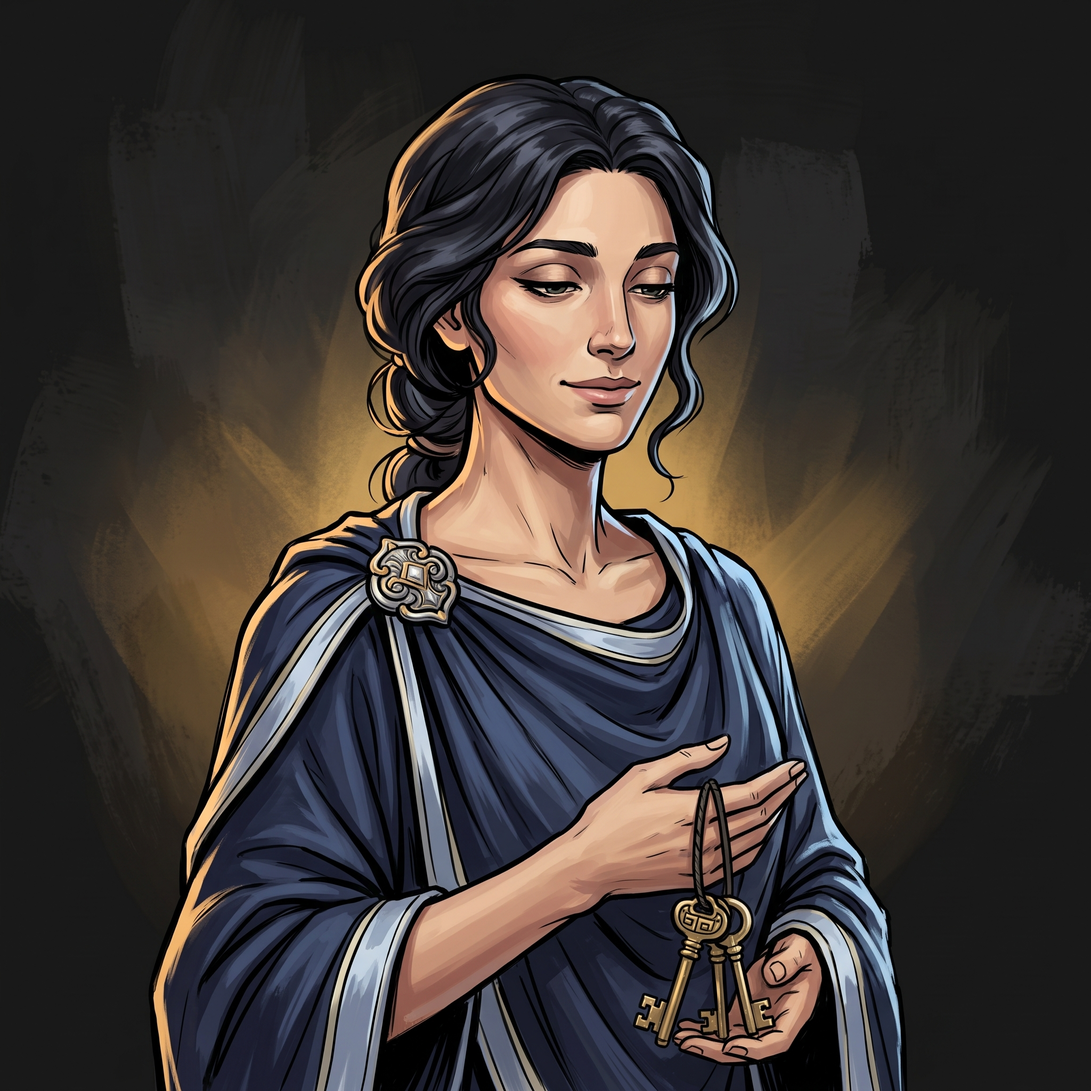
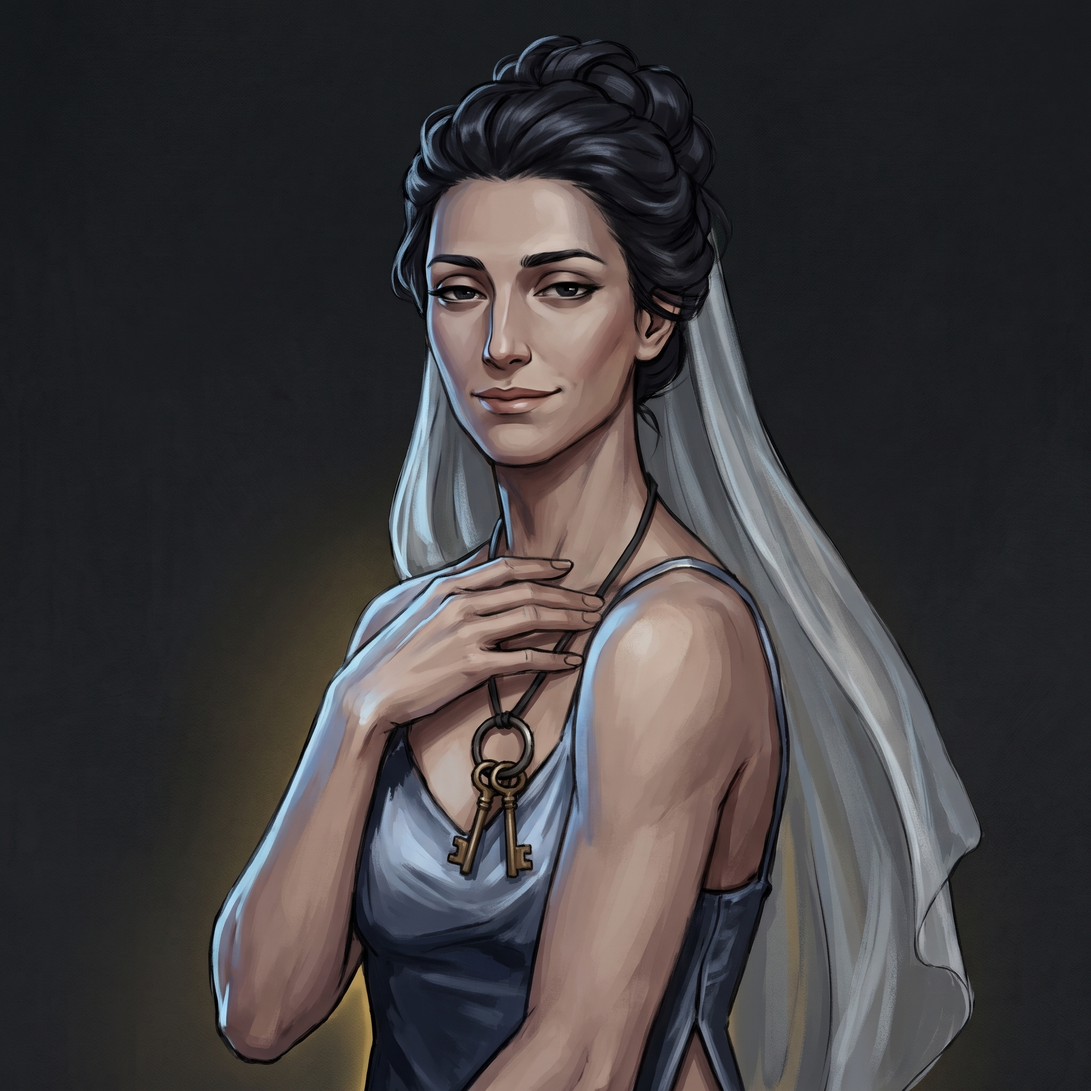
assets: five redrawn portraits (Hesychia, Argos, Chronos, Elpis, Hermes) with their prompts; the 2026-10-20 originals kept

diff --git a/assets/avatars/originals/portrait-prompts.md b/assets/avatars/originals/portrait-prompts.md
@@ -160,3 +160,195 @@ one the same way.
 - Hermes's kerykeion, petasos and talaria: web.uvic.ca/lancenrd/classical_myth/gods/hermes_i.html
 - Elpis and Pandora's jar: theoi.com/Daimon/Elpis.html
 - Kourai style: deleted `docs/art-direction.md` (`git show 0fe8f44a^:docs/art-direction.md`) and `assets/setting/setting-concepts.md`
+
+## Redraws, 2026-11-01
+
+On 2026-11-01 AJ replaced five portraits. The 2026-10-20 originals stay in this folder as `<name>-2026-10-20.jpg`; `<name>.jpg` is the current one.
+
+- **Hesychia** was redrawn because she and Elpis read as one face: both briefs said "dark hair loosely bound" and both were made from the same references (Hephaestus, Aletheia, Kallos). The new brief attaches Hephaestus for framing only. AJ picked round 3 from Gemini. Her three prompts follow in order.
+- **Argos, Chronos, Elpis and Hermes** were re-prompted from their own portraits to match the first ten's rendering: plain warm grey background, no gold glow, natural skin. Chronos lost the zodiac ring. Each re-prompt follows.
+
+### Hesychia, Keeper of Quiet: new portrait
+
+#### 1. Attach
+
+- `hephaestus_neutral.png` (in this folder), for framing only.
+- Nothing else. Do not attach Elpis, Aletheia, Kallos or the old Hesychia: the old portrait copied their face.
+
+#### 2. Paste: style block
+
+Painterly, semi-realistic character portrait. Digital painting with confident thick brushwork, bold clean silhouette, expressive face. Ancient Greek myth recast as a divine forge-atelier: the character is an artisan or servant of a craft, not a warrior. Square 640x640 bust portrait, mid-torso up, three-quarter turn, the figure slightly right of centre with the near shoulder toward the viewer. The head sits in the upper middle of the frame. Plain deep charcoal background (#1A1A1A). Lighting: cool moonlight is the main light; only a faint warm gold glow sits low behind the shoulders. Palette: moonlit silver-blue (#A9B8D0), night blue, pale silver, with small touches of honeyed gold (#C9944A). Match the rendering, framing and level of detail of the attached reference portrait exactly, but not its face.
+
+#### 3. Paste: character block
+
+A woman in her thirties with a long, calm face, a straight nose and level dark brows, dark hair worn up. She wears a silver-blue silk night chiton in a slip style, with thin straps, bare shoulders and arms, the silk clinging softly and catching the moonlight, and a high slit at the side. A pale gauze veil has slipped back off her hair and drapes loosely from one shoulder. Her gaze is half-lidded and knowing, with a slow, faint smile. One hand rests at her collarbone, holding a ring of two old golden keys on a dark cord (the keys of counsel and war). Cool moonlight from the upper left traces her shoulders and the silk. Languid, elegant, alluring, unhurried.
+
+#### 4. Paste: negative prompt
+
+nudity, see-through fabric, explicit pose, anime, large eyes, chibi, pastel colour wash, photorealistic, 3D render, CGI, grimdark, armour, weapons, text, watermark, logo, signature, border, frame, multiple characters, cropped head, full body, busy background, a finger to the lips, flowers, a jar, loose hair framing the face, a halo.
+
+#### 5. Tips
+
+- If a generator refuses, drop "alluring" and "high slit" first.
+- Want her more modest: use the veiled version on klepsydra#247 instead of the section 3 block.
+
+#### 6. When you have one you like
+
+Save it (and a transparent version if the generator makes one) to `Downloads\hesychia\` and tell Heph. The original and this prompt go to kourai-khryseai, the crops to the app, and the old portrait is kept.
+
+### Hesychia, round 2 (in the Gemini chat that made the first one)
+
+#### 1. Attach
+
+- Nothing new. Stay in the same Gemini chat so it keeps her face and style.
+- If you start a new chat: attach `Gemini_Generated_Image_hoypalhoypalhoyp.jpg` (her) and `hephaestus_neutral.png` (framing).
+
+#### 2. Paste: edit request
+
+Keep this exact woman, face, hairstyle, veil, slip dress, keys and painting style. Change only the pose and the light:
+- Turn her to a three-quarter view, her body angled toward the left of the frame, with her near shoulder toward the viewer, and place her slightly right of centre, like the attached Hephaestus portrait.
+- Make cool moonlight the main light, from the upper left: a crisp silver-blue rim along her veil, cheekbone, shoulder and the silk, and soft blue shadows. Keep only a faint warm glow low behind her shoulders.
+- Let the veil catch the moonlight and fall in softer, lighter folds, more gauze than bridal.
+- Keep her gaze half-lidded and knowing, the smile slow and faint.
+- Square 640x640, bust from mid-torso up, plain deep charcoal background.
+
+#### 3. Paste: if it changes her face
+
+Keep her face exactly as in the first image. Only the pose and lighting change.
+
+#### 4. When you have one
+
+Save it beside the others in this folder and tell Heph.
+
+### Hesychia, round 3 (the chosen one)
+
+Pasted in the same Gemini chat after round 2 (AJ picked this one):
+
+She wears a silver-blue silk night chiton in a slip style, with thin straps, bare shoulders and arms, the silk clinging softly and catching the moonlight, and a high slit at the side. A pale gauze veil has slipped back off her hair and drapes loosely from one shoulder. Her gaze is half-lidded and knowing, with a slow, faint smile. One hand rests at her collarbone, holding the ring of two golden keys on its dark cord. Cool moonlight from the upper left traces her shoulders and the silk; a faint warm glow sits low behind her. Languid, elegant, alluring, unhurried.
+
+Avoid: nudity, see-through fabric, explicit poses, a finger to the lips, flowers, a jar.
+
+### Argos, the Hundred-Eyed Watch: re-prompt to match the original cast
+
+#### 1. Attach (all in this folder)
+
+- `argos_current.jpg`: the character to keep.
+- `puck_neutral.png` `techne_neutral.png` : style references from the original ten (the golden maidens).
+- Nothing else.
+
+#### 2. Paste: edit request
+
+Redraw the character in the first image in the exact style of the other attached portraits (match their rendering and background only, not their gold bodies). Keep: his face, beard, peacock-feather mantle, lantern and watchful expression, but make him leaner and younger than now so he no longer reads as a second Hephaestus. Change:
+- Background: plain warm mid-grey with visible soft brush texture, like the style references, with no gold glow or halo behind the figure and no objects in the background.
+- Body: keep natural skin; this character is a god or spirit visiting the forge, not one of its golden maidens.
+- Rendering: the same semi-realistic painted style, ink-like outlines and soft rim light as the style references, not photorealistic.
+- Square 640x640, bust from mid-torso up, three-quarter turn, figure slightly right of centre, head in the upper middle.
+
+#### 3. Paste: negative prompt
+
+photorealistic, real person likeness, 3D render, CGI, anime, chibi, grimdark, armour, weapons, text, watermark, logo, signature, border, frame, multiple characters, cropped head, busy background, gold halo or glow behind the figure, zodiac ring, nudity
+
+#### 4. Tips
+
+- If the face drifts, paste: "Keep the face from the first image exactly; change only the style, background and the gold details."
+- If the gold takes over, paste: "Less gold: keep the face and skin natural, gold only on the forearms and hands."
+
+- If you want the golden-maiden look after all, paste: "Add a forged-gold touch: forearms and hands of articulated burnished gold with fine seams, and small gold eye motifs set into the peacock-feather mantle."
+
+#### 5. When you have one
+
+Save it in this folder and tell Heph. The original and this prompt go to kourai-khryseai, the crops to the app, and the old portrait is kept.
+
+### Chronos, Keeper of the Hours: re-prompt to match the original cast
+
+#### 1. Attach (all in this folder)
+
+- `chronos_current.jpg`: the character to keep.
+- `metis_neutral.png` `techne_neutral.png` : style references from the original ten (the golden maidens).
+- Nothing else.
+
+#### 2. Paste: edit request
+
+Redraw the character in the first image in the exact style of the other attached portraits (match their rendering and background only, not their gold bodies). Keep: his face, silver beard, robes and the hourglass he holds; remove the zodiac ring behind him. Change:
+- Background: plain warm mid-grey with visible soft brush texture, like the style references, with no gold glow or halo behind the figure and no objects in the background.
+- Body: keep natural skin; this character is a god or spirit visiting the forge, not one of its golden maidens.
+- Rendering: the same semi-realistic painted style, ink-like outlines and soft rim light as the style references, not photorealistic.
+- Square 640x640, bust from mid-torso up, three-quarter turn, figure slightly right of centre, head in the upper middle.
+
+#### 3. Paste: negative prompt
+
+photorealistic, real person likeness, 3D render, CGI, anime, chibi, grimdark, armour, weapons, text, watermark, logo, signature, border, frame, multiple characters, cropped head, busy background, gold halo or glow behind the figure, zodiac ring, nudity
+
+#### 4. Tips
+
+- If the face drifts, paste: "Keep the face from the first image exactly; change only the style, background and the gold details."
+- If the gold takes over, paste: "Less gold: keep the face and skin natural, gold only on the forearms and hands."
+
+- If you want the golden-maiden look after all, paste: "Add a forged-gold touch: a gold hand and forearm with clockwork seams holding the hourglass, and gold inlay at the temples."
+
+#### 5. When you have one
+
+Save it in this folder and tell Heph. The original and this prompt go to kourai-khryseai, the crops to the app, and the old portrait is kept.
+
+### Elpis, Hope That Stayed: re-prompt to match the original cast
+
+#### 1. Attach (all in this folder)
+
+- `elpis_current.jpg`: the character to keep.
+- `kallos_neutral.png` `mneme_neutral.png` : style references from the original ten (the golden maidens).
+- Nothing else.
+
+#### 2. Paste: edit request
+
+Redraw the character in the first image in the exact style of the other attached portraits (match their rendering and background only, not their gold bodies). Keep: her face, smile, flowers in her hair, cream-and-gold peplos, bronze pithos with light rising from it, and the white flowers. Change:
+- Background: plain warm mid-grey with visible soft brush texture, like the style references, with no gold glow or halo behind the figure and no objects in the background.
+- Body: keep natural skin; this character is a god or spirit visiting the forge, not one of its golden maidens.
+- Rendering: the same semi-realistic painted style, ink-like outlines and soft rim light as the style references, not photorealistic.
+- Square 640x640, bust from mid-torso up, three-quarter turn, figure slightly right of centre, head in the upper middle.
+
+#### 3. Paste: negative prompt
+
+photorealistic, real person likeness, 3D render, CGI, anime, chibi, grimdark, armour, weapons, text, watermark, logo, signature, border, frame, multiple characters, cropped head, busy background, gold halo or glow behind the figure, zodiac ring, nudity
+
+#### 4. Tips
+
+- If the face drifts, paste: "Keep the face from the first image exactly; change only the style, background and the gold details."
+- If the gold takes over, paste: "Less gold: keep the face and skin natural, gold only on the forearms and hands."
+
+- If you want the golden-maiden look after all, paste: "Add a forged-gold touch: gold skin with fine seams at the wrists and shoulders, like a golden maiden, while keeping her warm, gentle face."
+
+#### 5. When you have one
+
+Save it in this folder and tell Heph. The original and this prompt go to kourai-khryseai, the crops to the app, and the old portrait is kept.
+
+### Hermes, Herald of the Gods: re-prompt to match the original cast
+
+#### 1. Attach (all in this folder)
+
+- `hermes_current.jpg`: the character to keep.
+- `puck_neutral.png` `techne_neutral.png` : style references from the original ten (the golden maidens).
+- Nothing else.
+
+#### 2. Paste: edit request
+
+Redraw the character in the first image in the exact style of the other attached portraits (match their rendering and background only, not their gold bodies). Keep: his face, grin, winged hat, caduceus and travelling cloak. Change:
+- Background: plain warm mid-grey with visible soft brush texture, like the style references, with no gold glow or halo behind the figure and no objects in the background.
+- Body: keep natural skin; this character is a god or spirit visiting the forge, not one of its golden maidens.
+- Rendering: the same semi-realistic painted style, ink-like outlines and soft rim light as the style references, not photorealistic.
+- Square 640x640, bust from mid-torso up, three-quarter turn, figure slightly right of centre, head in the upper middle.
+
+#### 3. Paste: negative prompt
+
+photorealistic, real person likeness, 3D render, CGI, anime, chibi, grimdark, armour, weapons, text, watermark, logo, signature, border, frame, multiple characters, cropped head, busy background, gold halo or glow behind the figure, zodiac ring, nudity
+
+#### 4. Tips
+
+- If the face drifts, paste: "Keep the face from the first image exactly; change only the style, background and the gold details."
+- If the gold takes over, paste: "Less gold: keep the face and skin natural, gold only on the forearms and hands."
+
+- If you want the golden-maiden look after all, paste: "Add a forged-gold touch: gold skin on the hands and forearms with fine seams, gold wings on the hat and sandals catching light."
+
+#### 5. When you have one
+
+Save it in this folder and tell Heph. The original and this prompt go to kourai-khryseai, the crops to the app, and the old portrait is kept.
+
